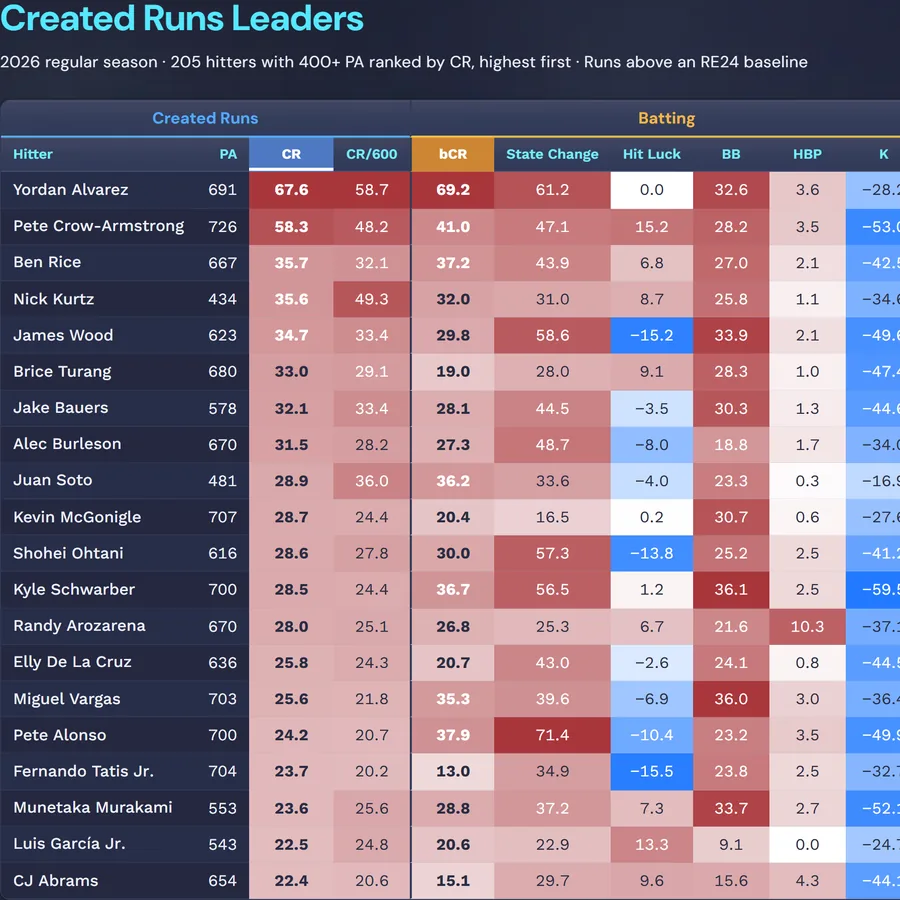
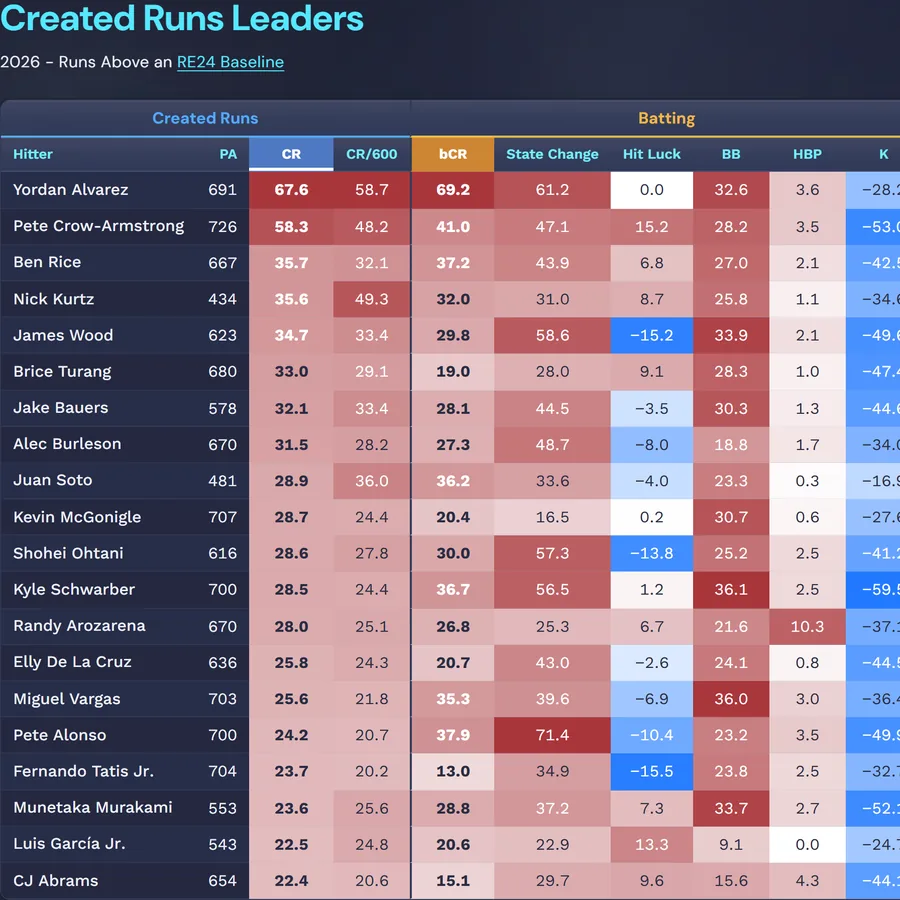
Created Runs: the artifact's new copy (fixed subtitle with an RE24 link, "created runs")
Mirrors the Total Offensive Value session's copy changes to the artifact. The subtitle is fixed:
"2026 - Runs Above an RE24 Baseline", the last words linking to FanGraphs' RE24 page. The
sort is now in the hidden caption only, for screen readers (app.js v2). "Runs created" becomes
"created runs" in the glossary, the page's description and the homepage tile's blurb. The tile
is recaptured with the new subtitle (?v=3).

Changed region(s): [[0.0622, 0.0622, 0.9022, 0.0933]]

diff --git a/created-runs/index.html b/created-runs/index.html
@@ -5,7 +5,7 @@
 <meta name="viewport" content="width=device-width,initial-scale=1,viewport-fit=cover">
 <meta name="color-scheme" content="dark">
 <title>Created Runs Leaders</title>
-<meta name="description" content="2026 hitters ranked by runs created above an RE24 baseline, at the plate and on the bases: state change on balls in play, hit luck, walks, hit-by-pitches and strikeouts; home-to-first, baserunning, steals, caught stealing and pickoffs.">
+<meta name="description" content="2026 hitters ranked by created runs above an RE24 baseline, at the plate and on the bases: state change on balls in play, hit luck, walks, hit-by-pitches and strikeouts; home-to-first, baserunning, steals, caught stealing and pickoffs.">
 <link rel="preconnect" href="https://fonts.googleapis.com">
 <link rel="preconnect" href="https://fonts.gstatic.com" crossorigin>
 <link rel="stylesheet" href="https://fonts.googleapis.com/css2?family=DM+Sans:opsz,wght@9..40,400;9..40,500;9..40,600;9..40,700;9..40,900&family=Work+Sans:wght@400;500;600;700&display=swap">
@@ -102,13 +102,17 @@
 .glossary .gl-group{display:flex; flex-direction:column; gap:12px}
 .glossary h3{margin:0; font-family:var(--font-display); font-weight:700; font-size:16px; line-height:1.2; color:var(--group)}
 .status{margin:0; color:#cbd7fd}
+/* the subtitle's link: brand-cyan, underlined, cyan-300 on hover */
+.plpd-page-header__meta a{color:#55e8ff; text-decoration:underline; text-underline-offset:3px}
+.plpd-page-header__meta a:hover{color:#73efff}
+.plpd-page-header__meta a:focus-visible{outline:2px solid #55e8ff; outline-offset:2px; border-radius:2px}
 </style>
 </head>
 <body class="plpd">
 <div class="page">
   <header class="plpd-page-header">
     <h1 class="plpd-page-header__title">Created Runs Leaders</h1>
-    <p class="plpd-page-header__meta" id="details">2026 regular season · hitters with 400+ PA · Runs above an RE24 baseline</p>
+    <p class="plpd-page-header__meta"><span class="season">2026</span> - Runs Above an <a href="https://library.fangraphs.com/misc/re24/" target="_blank" rel="noopener">RE24 Baseline</a></p>
   </header>
 
   <div class="table-wrap" id="wrap" role="region" aria-label="Hitters, sortable by any stat" tabindex="0">
@@ -129,19 +133,19 @@
 
   <section class="glossary" aria-labelledby="gl-title">
     <h2 id="gl-title">Reading the table</h2>
-    <p>Every number is runs created above an RE24 baseline built from the <span class="season">2026</span> season. The table covers the <span id="gl-count">205</span> hitters with at least <span class="min-pa">400</span> PA. Pick any column heading to rank them by it, highest first; pick it again for lowest first. It shows 20 hitters at a time, so scroll it for the rest. Values shade from white at zero toward red at the highest value among these hitters and blue at the lowest.</p>
+    <p>Every number is created runs above an RE24 baseline built from the <span class="season">2026</span> season. The table covers the <span id="gl-count">205</span> hitters with at least <span class="min-pa">400</span> PA. Pick any column heading to rank them by it, highest first; pick it again for lowest first. It shows 20 hitters at a time, so scroll it for the rest. Values shade from white at zero toward red at the highest value among these hitters and blue at the lowest.</p>
     <div class="gl-groups">
       <div class="gl-group g-created">
         <h3>Created Runs</h3>
         <dl>
-          <div><dt>CR</dt><dd>Total runs created, batting plus running.</dd></div>
+          <div><dt>CR</dt><dd>Total created runs, batting plus running.</dd></div>
           <div><dt>CR/600</dt><dd>CR scaled to 600 plate appearances.</dd></div>
         </dl>
       </div>
       <div class="gl-group g-batting">
         <h3>Batting</h3>
         <dl>
-          <div><dt>bCR</dt><dd>Runs created at the plate: every column in this group added together.</dd></div>
+          <div><dt>bCR</dt><dd>Created runs at the plate: every column in this group added together.</dd></div>
           <div><dt>State Change</dt><dd>Expected runs from each ball in play, given the base-out state, exit velocity, launch angle and spray angle.</dd></div>
           <div><dt>Hit Luck</dt><dd>How much more or less a line drive, fly ball or popup was worth than its contact deserved: a blooper falling in, or a hard liner caught.</dd></div>
           <div><dt>BB, HBP, K</dt><dd>Runs from walks (intentional included), hit-by-pitches and strikeouts.</dd></div>
@@ -150,7 +154,7 @@
       <div class="gl-group g-running">
         <h3>Running</h3>
         <dl>
-          <div><dt>rCR</dt><dd>Runs created on the bases: every column in this group added together.</dd></div>
+          <div><dt>rCR</dt><dd>Created runs on the bases: every column in this group added together.</dd></div>
           <div><dt>Home-to-First</dt><dd>How much more or less a ground ball was worth than its contact deserved: beating out the throw, or being thrown out on a grounder that should have been a hit.</dd></div>
           <div><dt>BsR</dt><dd>Extra bases taken or given away on balls in play, against the average runner from the same spot.</dd></div>
           <div><dt>SB</dt><dd>Runs from stolen bases.</dd></div>
@@ -160,6 +164,6 @@
     </div>
   </section>
 </div>
-<script type="module" src="app.js?v=1"></script>
+<script type="module" src="app.js?v=2"></script>
 </body>
 </html>

diff --git a/index.html b/index.html
@@ -202,12 +202,12 @@
 								</article>
 									<article class="style3">
 									<span class="image">
-										<img src="images/tile-created-runs.webp?v=2" srcset="images/tile-created-runs-720.webp?v=2 720w, images/tile-created-runs.webp?v=2 900w" sizes="(max-width: 480px) 100vw, (max-width: 980px) 50vw, 380px" width="900" height="900" alt="2026 Created Runs leaders: Yordan Alvarez first at 67.6 runs above an RE24 baseline" />
+										<img src="images/tile-created-runs.webp?v=3" srcset="images/tile-created-runs-720.webp?v=3 720w, images/tile-created-runs.webp?v=3 900w" sizes="(max-width: 480px) 100vw, (max-width: 980px) 50vw, 380px" width="900" height="900" alt="2026 Created Runs leaders: Yordan Alvarez first at 67.6 runs above an RE24 baseline" />
 									</span>
 									<a href="/created-runs/">
 										<h2>Created Runs</h2>
 										<div class="content">
-											<p>Every 2026 hitter's runs created above an RE24 baseline, at the plate and on the bases: state change on balls in play, hit luck, walks and strikeouts, beating out grounders, baserunning and steals.</p>
+											<p>Every 2026 hitter's created runs above an RE24 baseline, at the plate and on the bases: state change on balls in play, hit luck, walks and strikeouts, beating out grounders, baserunning and steals.</p>
 										</div>
 									</a>
 								</article>

diff --git a/created-runs/app.js b/created-runs/app.js
@@ -89,12 +89,11 @@ function renderRows() {
   return list.length;
 }
 
-function renderDetails(count) {
+// The visible subtitle is fixed; the table's caption names the current ranking for screen readers.
+function renderCaption(count) {
   const col = COLS.find((c) => c.key === sort.key);
   const order = sort.dir === "desc" ? "highest first" : "lowest first";
-  const who = `${count} hitters with ${DATA.minPa}+ PA`;
-  $("details").textContent = `${DATA.season} regular season · ${who} ranked by ${col.label}, ${order} · Runs above an RE24 baseline`;
-  $("caption").textContent = `${who} ranked by ${col.label}, ${order}, ${DATA.season}`;
+  $("caption").textContent = `${count} hitters with ${DATA.minPa}+ PA ranked by ${col.label}, ${order}, ${DATA.season}`;
 }
 
 // Size the scroll box to the two header rows plus VISIBLE_ROWS body rows, measured, so it holds
@@ -111,7 +110,7 @@ function fitHeight() {
 
 function render() {
   renderHead();
-  renderDetails(renderRows());
+  renderCaption(renderRows());
   fitHeight();
 }
 
